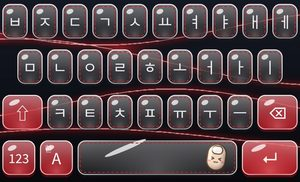
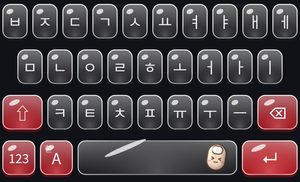
2026.11.11-9 레이싱 레드 점선·빛줄기 제거
Claude-Session: https://claude.ai/code/session_01GvSCgEXELCVfxACkb9NKF6

diff --git a/Shared/KBTheme.swift b/Shared/KBTheme.swift
@@ -99,7 +99,7 @@ struct KBTheme {
                 bg: c(16, 18, 24), key: c(30, 30, 33), special: c(190, 18, 28),
                 pressKey: c(46, 46, 50), pressSpecial: c(160, 12, 22),
                 text: c(236, 236, 238), specialText: .white,
-                accent: c(214, 22, 32), depth: 4, radius: 10, bgImage: "bg_race", stitch: c(200, 30, 40)),
+                accent: c(214, 22, 32), depth: 4, radius: 10),
 
         // ---- 레트로 10색 (키캡 모양 고르기) ----
         KBTheme(id: "rt_rose", name: "블랙 & 로즈 골드",
